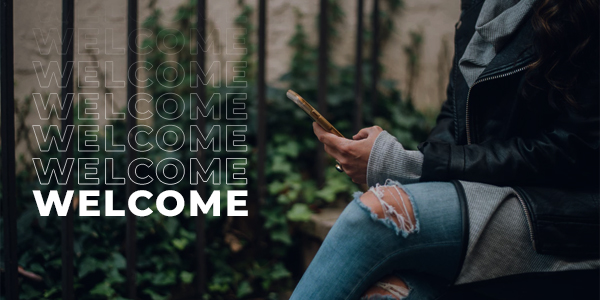
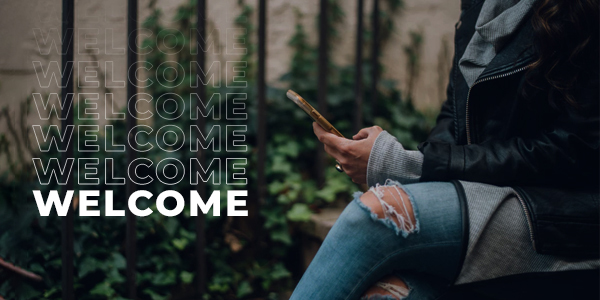
Resolving black grid on title image

Changed region(s): [[0.0, 0.0, 0.06, 0.63], [0.0, 0.78, 0.03, 0.9], [0.0, 0.96, 0.03, 1.0]]

diff --git a/templates/default.html b/templates/default.html
@@ -26,7 +26,7 @@
 										<tbody>
 											<tr style="margin:0; padding:0; border-image-width:0">
 												<td style="margin:0; padding:0; border-image-width:0">
-													<img id="template-img-header" src="https://github.com/stefanobg/email-template-generator/blob/master/assets/header.jpg?raw=true" style="max-width:600px; padding-bottom: 0; border:0; outline:0; text-decoration:none; display:block;">
+													<img id="template-img-header" src="https://raw.githubusercontent.com/stefanobg/email-template-generator/577d858e30c7faa67c750d23f78a91efb2c51646/assets/header.jpg" style="max-width:600px; padding-bottom: 0; border:0; outline:0; text-decoration:none; display:block;">
 												</td>
 											</tr>
 										</tbody>
